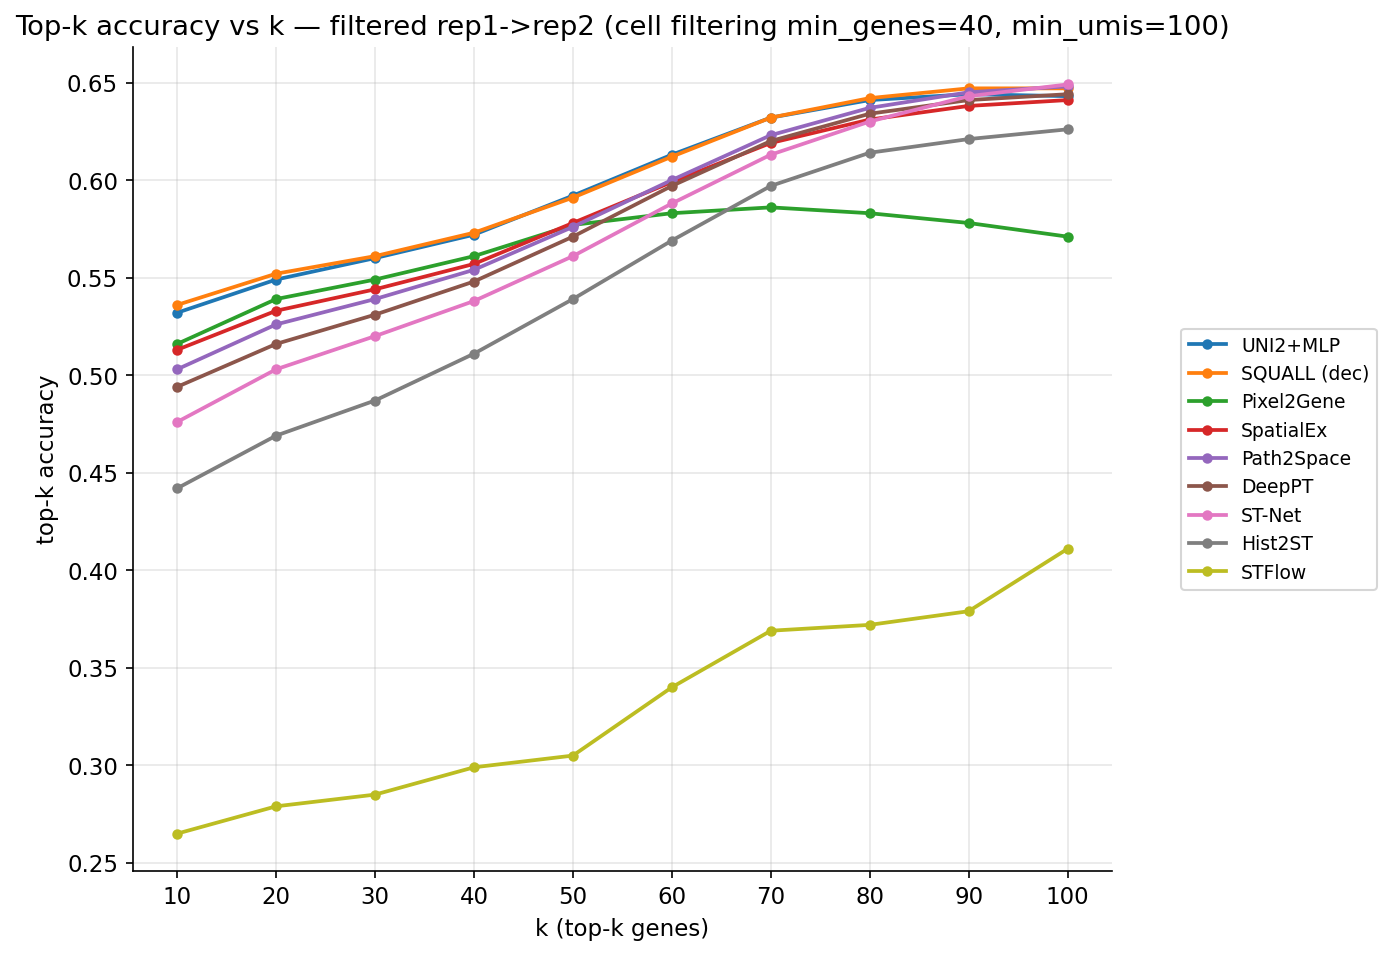
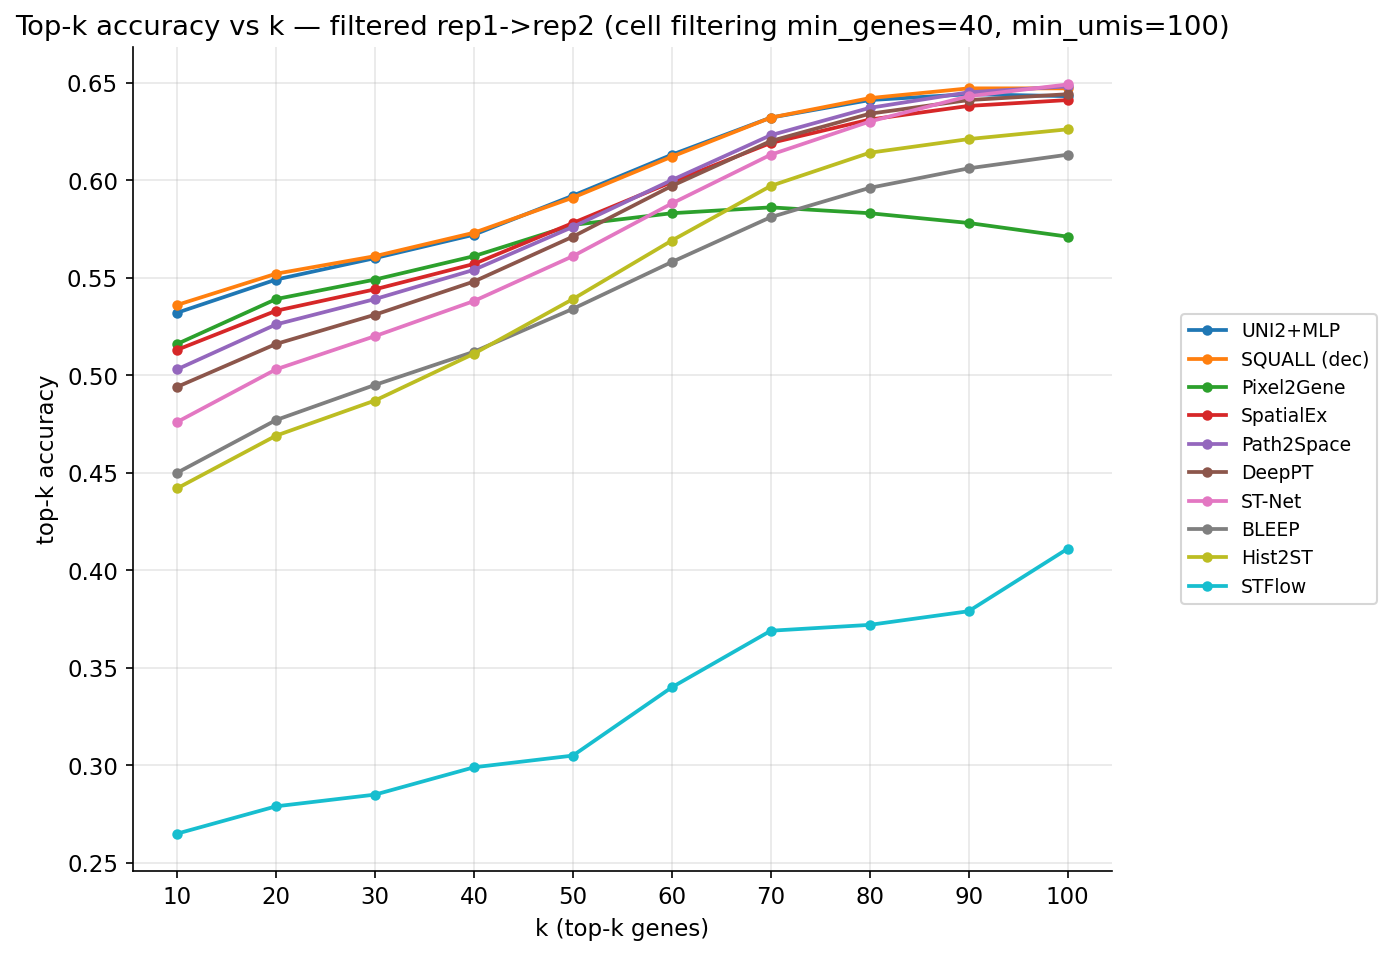
README/Top-k 曲线：补 BLEEP（PCC 0.2322, +0.019）；10 方法完整表 + AUROC 微降归因

diff --git a/README.md b/README.md
@@ -277,14 +277,17 @@ GHIST 数据按 cell_id 过滤。过滤后数据目录 `data/rep1_f`、`data/rep
 | **Path2Space** | 0.2780 | **0.2946** | +0.017 | 0.671 | 0.268 | 0.503 | 0.576 | 0.648 | 0.704 |
 | **DeepPT (R50)** | 0.2628 | **0.2791** | +0.016 | 0.663 | 0.260 | 0.494 | 0.571 | 0.644 | 0.697 |
 | **ST-Net** | 0.2386 | **0.2520** | +0.013 | 0.648 | 0.242 | 0.476 | 0.561 | 0.649 | 0.682 |
+| **BLEEP** | 0.2131 | **0.2322** | +0.019 | 0.616 | 0.220 | 0.450 | 0.534 | 0.613 | 0.657 |
 | Hist2ST | 0.2139 | 0.2049 | −0.009 | 0.606 | 0.199 | 0.442 | 0.539 | 0.626 | 0.648 |
 | STFlow | 0.0933 | **0.0997** | +0.006 | 0.331 | 0.160 | 0.265 | 0.305 | 0.411 | 0.611 |
 
-**Top-k 曲线**：见 [`topk_accuracy_filtered.png`](topk_accuracy_filtered.png)（k=10..100，9 方法，
-不同颜色）。完整逐 k 数值在各 `outputs/bench_*_f/eval_metrics.csv`。
+**Top-k 曲线**：见 [`topk_accuracy_filtered.png`](topk_accuracy_filtered.png)（k=10..100，
+10 方法，不同颜色）。完整逐 k 数值在各 `outputs/bench_*_f/eval_metrics.csv`。
 
-**待完成**：BLEEP（测试中）、GHIST（cpfs GPU OOM 修复后补跑）、Local+Global（过滤后
-调参 + 消融）。**主要发现**：除 Hist2ST（−0.009）外全部提升，SQUALL 提升最大（+0.021）。
+**待完成**：GHIST（cpfs GPU OOM 修复后补跑）、Local+Global（过滤后调参 + 消融）。
+**主要发现**：除 Hist2ST（−0.009）外**全部提升**，SQUALL 提升最大（+0.021）；
+AUROC 普遍微降是"过滤去除 easy negatives 使二分类判别变难"的统计效应（见上节讨论），
+不影响"过滤提升连续回归性能"的结论。
 
 ## 关键结论信号
 
